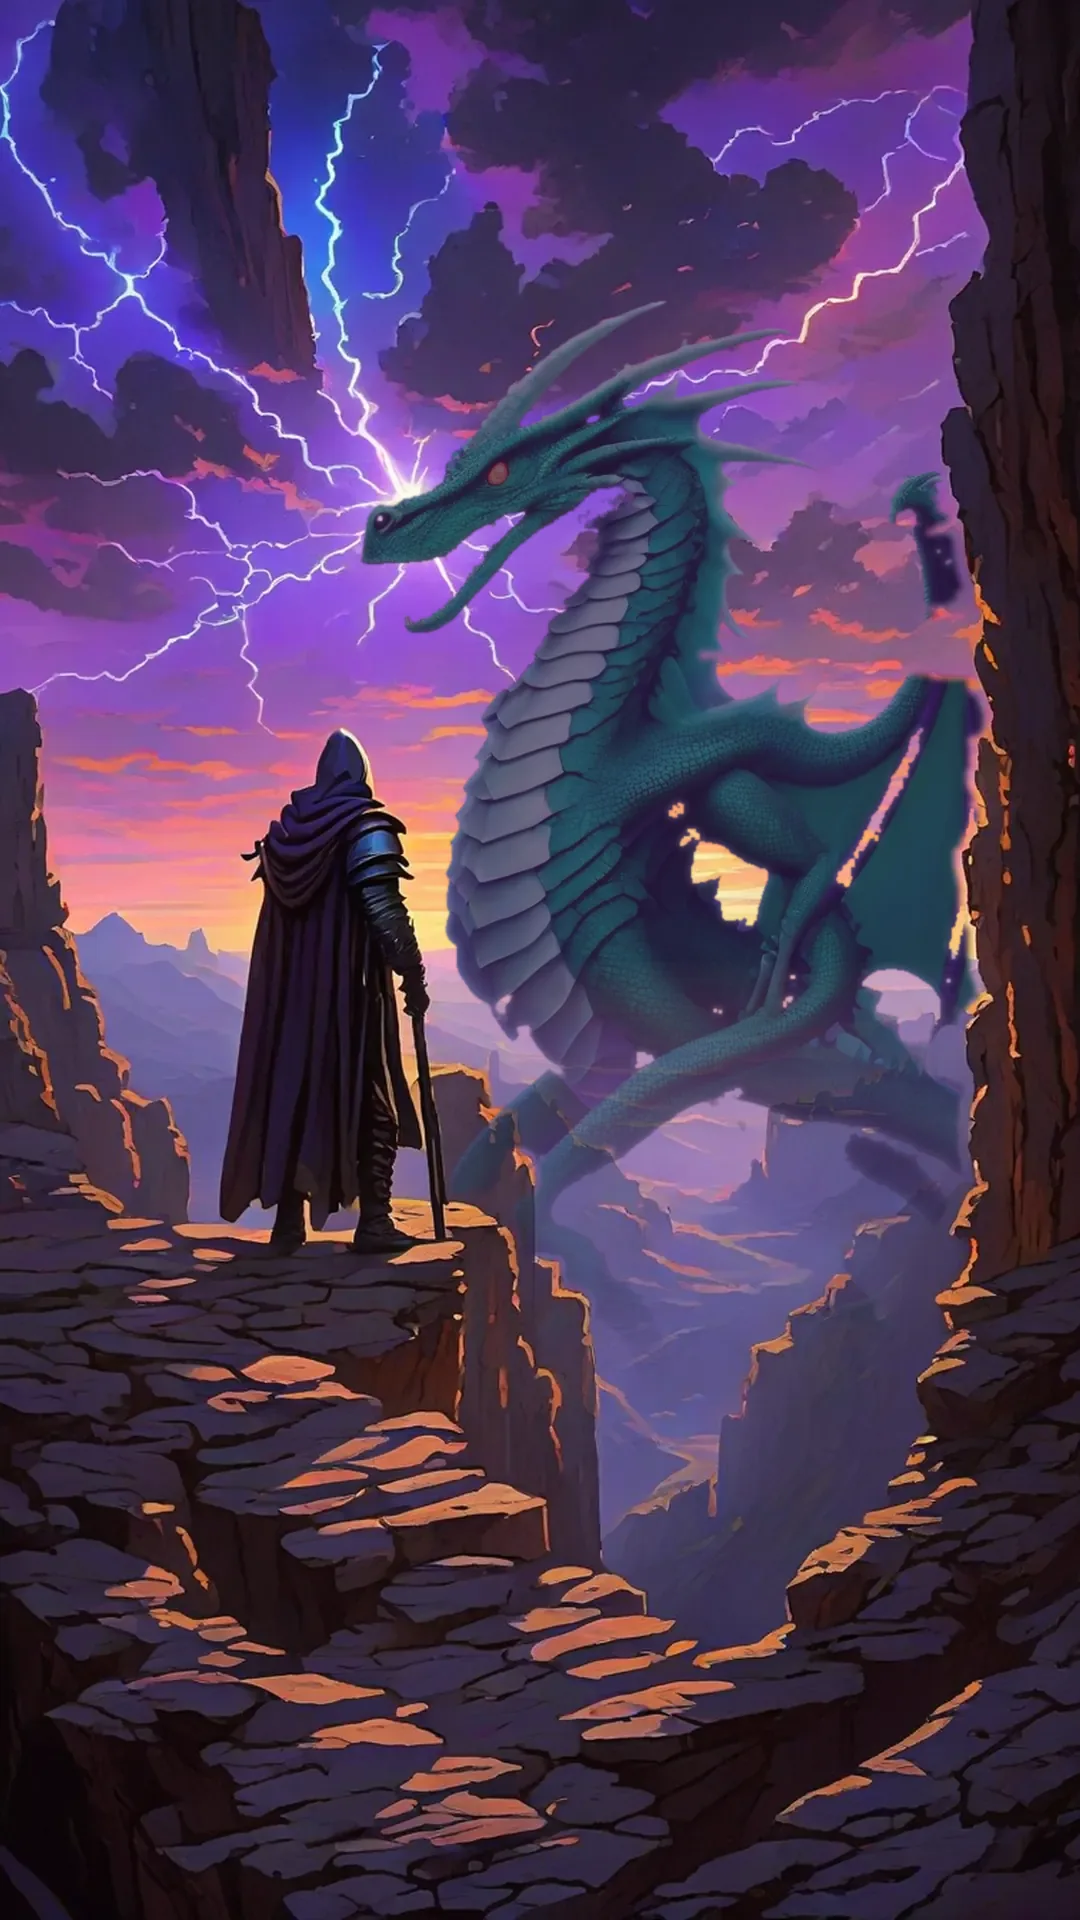
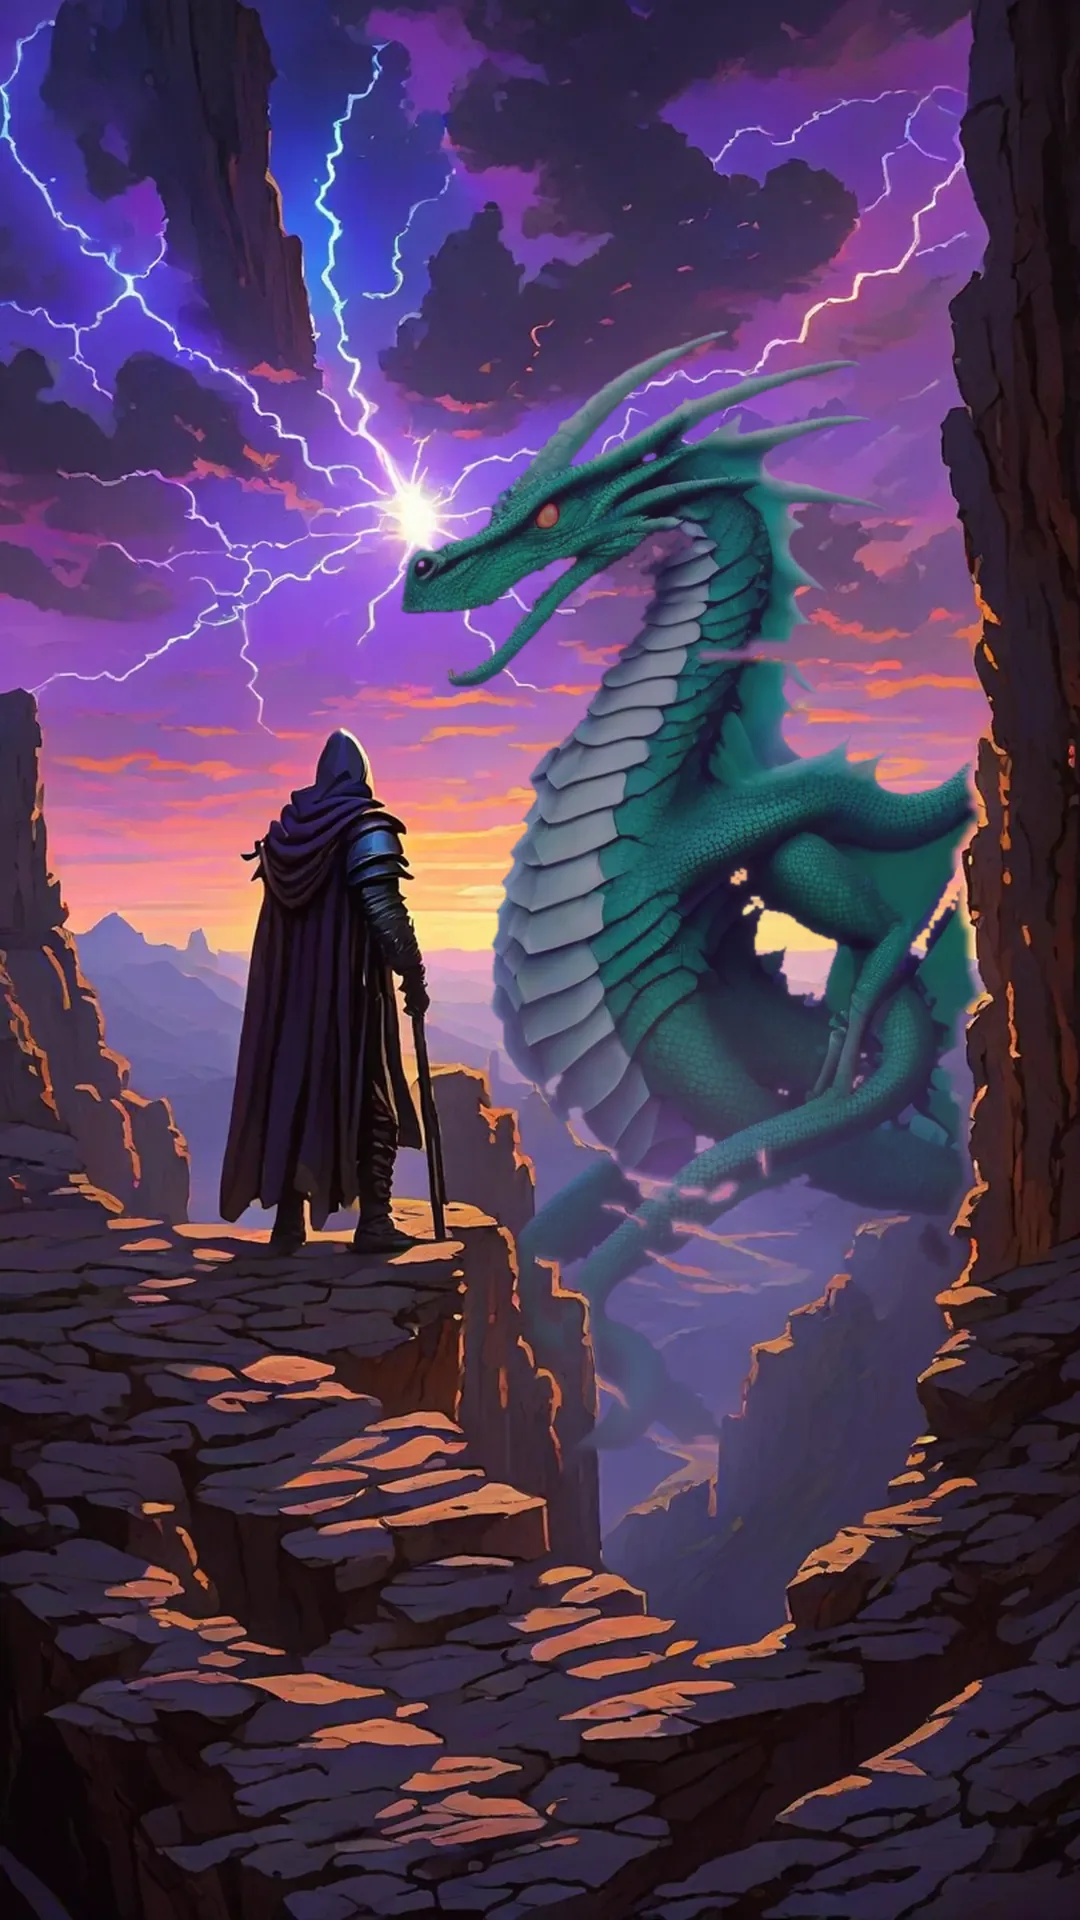
New players make their hero first; the landing's wyrm sits in the scene
Sign in leads a first-timer to Create your hero, and Begin starts the prologue (no way back to an empty hero
list). The wyrm on the landing is solid, lit by the storm, and sinks into the canyon mist instead of floating
see-through over the sunset.

Claude-Session: https://claude.ai/code/session_01AjA1xc9N8tqpn8XWwdLrSF

Changed region(s): [[0.3361, 0.1562, 0.9167, 0.75]]

diff --git a/apps/game/src/game/launch.ts b/apps/game/src/game/launch.ts
@@ -1,14 +1,12 @@
 import { api } from "../api";
-import { lookFromSeed, newSeed, randomName } from "../art/look";
 import { getState, setState, toast } from "../state/store";
 import { continueGame } from "./flow";
-import { HERO_ROOT } from "./hero";
-import { goTo, savedStep, startTutorial, tutorialDone } from "./tutorial";
+import { goTo, savedStep, tutorialDone } from "./tutorial";
 
 /**
  * How the game opens. Signing in (a placeholder for now) is remembered in this browser, so a signed-in
- * player skips the landing screen and lands straight in the game. Hero select and hero creation are
- * never on the way in; they are reached by going back from the game.
+ * player skips the landing screen and lands straight in the game. A first-timer makes their hero, then plays the
+ * prologue; hero select is reached by going back from the game.
  */
 const KEY = "ender:signed-in";
 
@@ -55,7 +53,8 @@ async function openSave() {
       .then((c) => c.xp > 0 || c.crowns !== 250 || c.level > 1)
       .catch(() => false));
   if (!saved) {
-    await startTutorial({ root: HERO_ROOT, name: randomName(), look: lookFromSeed(newSeed()) });
+    // A first-timer makes their hero first (Begin there starts the prologue).
+    setState({ screen: "create", panel: null });
     return;
   }
   await continueGame();

diff --git a/apps/game/src/ui/scenes/CreateHero.tsx b/apps/game/src/ui/scenes/CreateHero.tsx
@@ -5,7 +5,7 @@ import { SceneBackdrop } from "../../art/SceneBackdrop";
 import { startTutorial, tutorialDone } from "../../game/tutorial";
 import { HERO_ROOT, saveHero } from "../../game/hero";
 import { newBinder } from "../../game/flow";
-import { setState, toast } from "../../state/store";
+import { getState, setState, toast } from "../../state/store";
 import { Fig } from "../battle/Figure";
 import { sfx } from "../battle/sfx";
 import { useStage, useWorldTop } from "../Stage";
@@ -196,9 +196,12 @@ export function CreateHero() {
         </button>
       ))}
 
-      <button className="ch-exit" onClick={() => setState({ screen: "title" })} data-testid="to-heroes">
-        ‹ Heroes
-      </button>
+      {/* A first-timer has no heroes to go back to. */}
+      {(tutorialDone() || !!getState().hero) && (
+        <button className="ch-exit" onClick={() => setState({ screen: "title" })} data-testid="to-heroes">
+          ‹ Heroes
+        </button>
+      )}
       <header className="ch-head">
         <h1>Create your hero</h1>
       </header>
